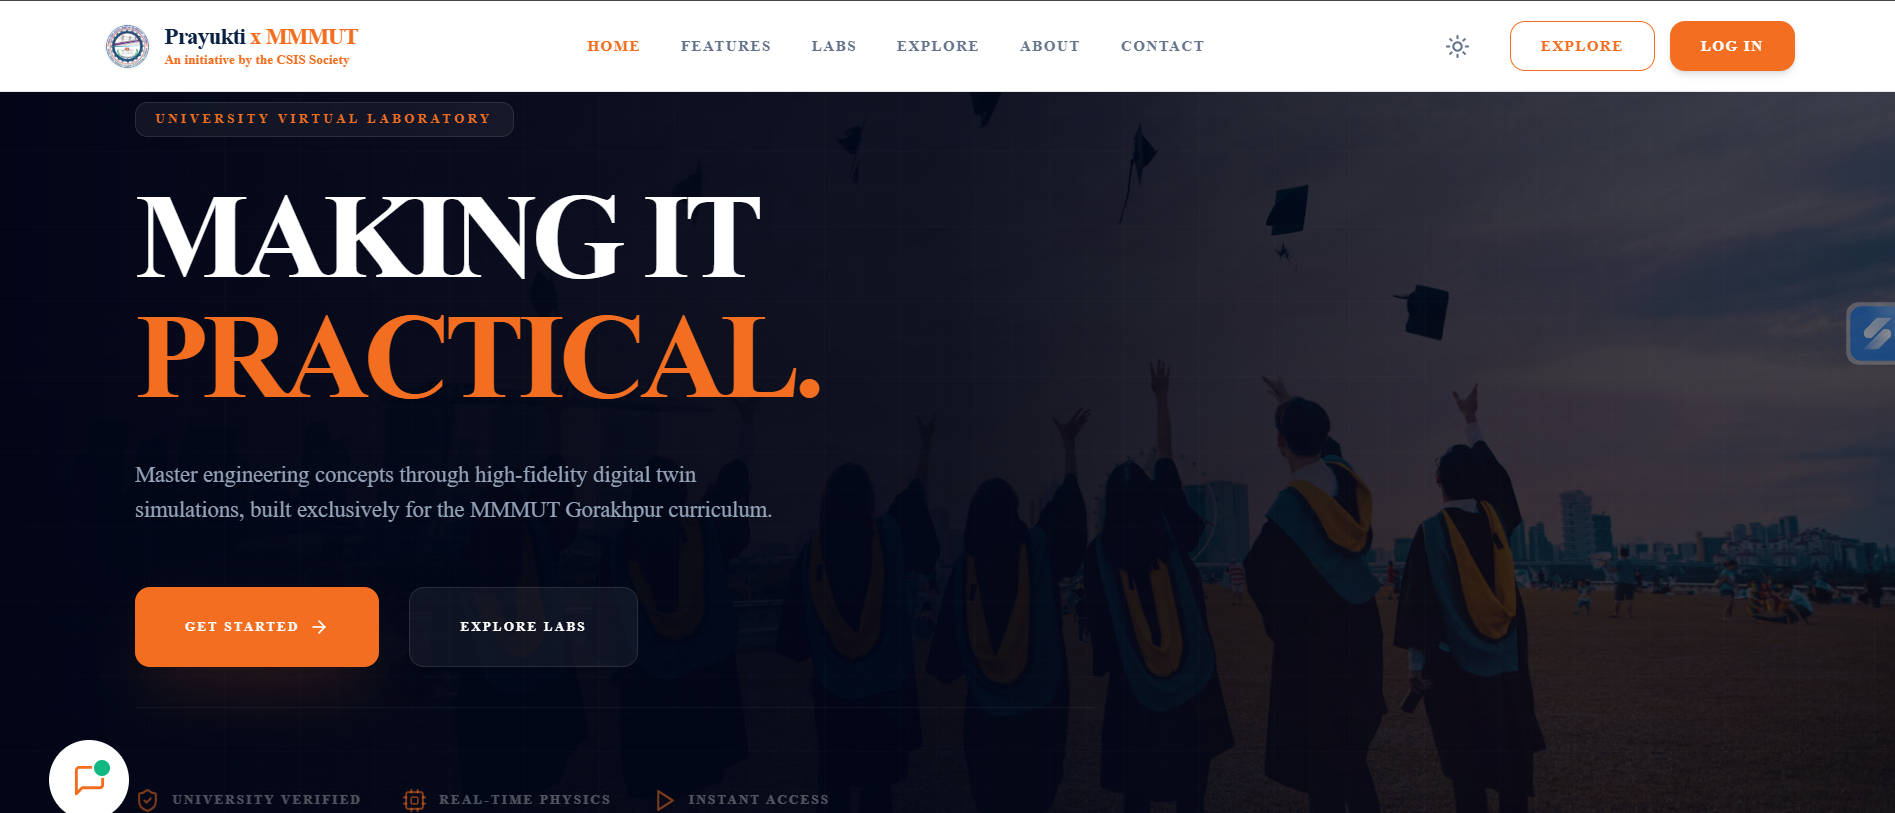
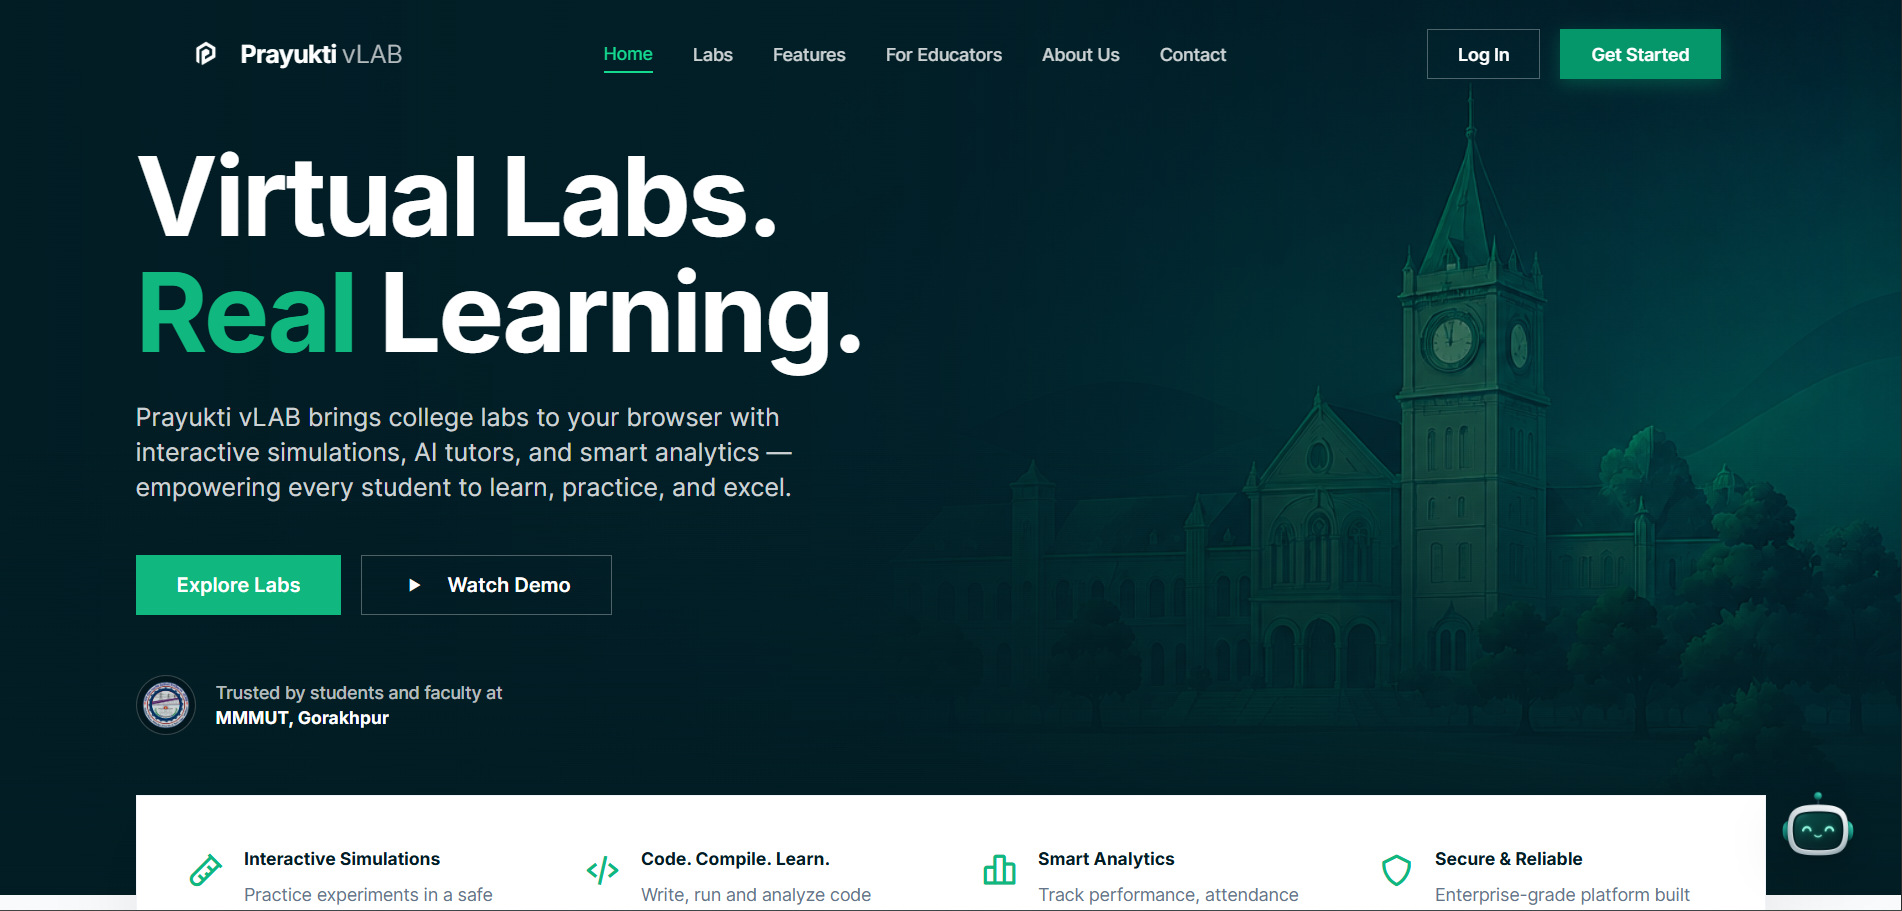
try now 2

diff --git a/src/components/ActiveProjects.tsx b/src/components/ActiveProjects.tsx
@@ -4,15 +4,8 @@ import { useRef, useState, useCallback } from "react";
 import Image from "next/image";
 import { motion, useInView } from "framer-motion";
 import {
-  Users,
-  ExternalLink,
   Lightbulb,
-  ArrowUpRight,
-  GitBranch,
-  Clock,
-  ChevronRight,
   ArrowRight,
-  User,
 } from "lucide-react";
 import Link from "next/link";
 import ComingSoonModal from "@/components/ui/ComingSoonModal";
@@ -333,27 +326,26 @@ function ProjectCard({
             {/* Meta tags directly below description */}
             <div className="flex flex-wrap items-center gap-4 mb-5 pb-5 border-b border-white/10">
               <div className="flex items-center gap-1.5 text-[11px] font-medium text-[var(--text-dim)]">
-                <GitBranch className="w-3.5 h-3.5 text-[var(--accent)]" />
+                <span className="text-[var(--accent)] font-bold">ID:</span>
                 <span className="font-mono">{project.id}</span>
               </div>
 
               <div className="flex items-center gap-1.5 text-[11px] font-medium text-[var(--text-dim)]">
-                <Users className="w-3.5 h-3.5 text-[var(--accent)]" />
+                <span className="text-[var(--accent)] font-bold">TEAM:</span>
                 <span>{project.teamSize} Members</span>
               </div>
               {project.duration && (
                 <div className="flex items-center gap-1.5 text-[11px] font-medium text-[var(--text-dim)]">
-                  <Clock className="w-3.5 h-3.5 text-[var(--accent)]" />
+                  <span className="text-[var(--accent)] font-bold">DURATION:</span>
                   <span>{project.duration}</span>
                 </div>
               )}
               {project.leadName && (
                 <div className="flex items-center gap-1.5 text-[11px] font-medium text-[var(--text-dim)]">
-                  <User className="w-3.5 h-3.5 text-[var(--accent)]" />
-                  <span>Lead: {project.leadName}</span>
+                  <span className="text-[var(--accent)] font-bold">LEAD:</span>
+                  <span>{project.leadName}</span>
                 </div>
               )}
-
             </div>
 
             {/* Spacer to push content down */}
@@ -394,7 +386,7 @@ function ProjectCard({
               </div>
 
               {/* Action Buttons */}
-              <div className={`flex flex-wrap items-center gap-3 pt-2`}>
+              <div className="relative z-40 flex flex-wrap items-center gap-3 pt-2">
                 <motion.a
                   href={project.applicationUrl}
                   target="_blank"
@@ -407,43 +399,40 @@ function ProjectCard({
                   whileHover={{ scale: 1.02 }}
                   whileTap={{ scale: 0.98 }}
                 >
-                  <span>Visit Application</span>
-                  <motion.span
-                    animate={isHovered ? { x: 3, y: -3, opacity: 1 } : { x: 0, y: 0, opacity: 0.8 }}
-                    transition={{ duration: 0.2 }}
-                  >
-                    <ArrowUpRight className={`${featured ? "w-4 h-4" : "w-3.5 h-3.5"}`} />
-                  </motion.span>
+                  <span>View Project</span>
                 </motion.a>
 
-                <motion.a
-                  href={project.githubUrl || "#"}
-                  target="_blank"
-                  rel="noopener noreferrer"
-                  onClick={handleExternalLinkClick}
-                  className={`flex items-center justify-center gap-2 rounded-xl transition-all duration-300 px-4 py-2 text-sm text-[var(--text-muted)] border border-white/10 hover:border-indigo-500/50 hover:shadow-[0_0_15px_rgba(99,102,241,0.2)] hover:bg-indigo-500/10 hover:text-indigo-200`}
-                  whileHover={{ scale: 1.05 }}
-                  whileTap={{ scale: 0.95 }}
-                >
-                  <span>GitHub</span>
-                  <motion.span
-                    animate={isHovered ? { rotate: [0, -15, 15, -15, 0], scale: 1.2 } : { rotate: 0, scale: 1 }}
-                    transition={{ duration: 0.5 }}
+                {project.githubUrl && (
+                  <motion.a
+                    href={project.githubUrl}
+                    target="_blank"
+                    rel="noopener noreferrer"
+                    className={`flex items-center justify-center gap-2 rounded-xl transition-all duration-300 px-4 py-2 text-sm text-[var(--text-muted)] border border-white/10 hover:border-indigo-500/50 hover:shadow-[0_0_15px_rgba(99,102,241,0.2)] hover:bg-indigo-500/10 hover:text-indigo-200`}
+                    whileHover={{ scale: 1.05 }}
+                    whileTap={{ scale: 0.95 }}
                   >
-                    <GitBranch className="w-3.5 h-3.5" />
-                  </motion.span>
-                </motion.a>
+                    <span>GitHub</span>
+                  </motion.a>
+                )}
 
                 <Link
                   href={`/projects/${project.id}`}
-                  className={`flex items-center justify-center gap-1.5 rounded-xl transition-all duration-300 px-3 py-2 text-xs font-medium text-[var(--text-muted)] hover:text-white hover:bg-white/5 border border-transparent hover:border-white/10`}
+                  className={`flex items-center justify-center gap-1.5 rounded-xl transition-all duration-300 px-4 py-2 text-sm font-medium text-[var(--text-muted)] hover:text-white hover:bg-white/5 border border-transparent hover:border-white/10`}
                 >
                   <span>Know more</span>
-                  <ChevronRight className="w-3.5 h-3.5" />
                 </Link>
               </div>
             </div>
           </div>
+          
+          {/* Transparent Overlay for Coming Soon Projects */}
+          {project.id !== "PROJ-001" && (
+            <div className="absolute inset-0 z-30 bg-black/50 backdrop-blur-[1px] flex flex-col items-center justify-center pointer-events-none rounded-[15px]">
+              <div className="px-6 py-3 bg-black/60 border border-white/20 rounded-2xl backdrop-blur-md shadow-2xl">
+                <span className="text-white font-bold text-lg md:text-xl tracking-widest uppercase shadow-black drop-shadow-md">Case Study Coming Soon</span>
+              </div>
+            </div>
+          )}
         </div>
       </motion.div>
 

diff --git a/src/app/join-us/thank-you/page.tsx b/src/app/join-us/thank-you/page.tsx
@@ -1,0 +1,78 @@
+import Link from "next/link";
+
+export default function ThankYouPage() {
+  return (
+    <div className="min-h-screen flex items-center justify-center pt-24 pb-16 px-6 bg-[#050505] relative overflow-hidden">
+      {/* Background glow */}
+      <div className="absolute inset-0 z-0 overflow-hidden pointer-events-none">
+        <div className="absolute top-1/2 left-1/2 -translate-x-1/2 -translate-y-1/2 w-[600px] h-[500px] bg-blue-600/10 rounded-full blur-[120px]" />
+        <div className="absolute bottom-0 left-0 w-full h-px bg-gradient-to-r from-transparent via-blue-500/20 to-transparent" />
+      </div>
+
+      <div className="relative z-10 max-w-2xl w-full text-center mt-10">
+        <h1 className="text-4xl md:text-5xl font-extrabold text-white tracking-tight mb-8">
+          Form Submitted <span className="text-transparent bg-clip-text bg-gradient-to-r from-blue-400 to-indigo-400">Successfully</span>
+        </h1>
+        
+        <div className="bg-[#0A0A0A] border border-white/10 rounded-3xl p-8 md:p-12 shadow-2xl mb-10 relative overflow-hidden">
+          {/* Subtle top highlight */}
+          <div className="absolute top-0 left-0 right-0 h-[2px] bg-gradient-to-r from-transparent via-blue-500/50 to-transparent" />
+          
+          <p className="text-lg text-gray-300 mb-8 leading-relaxed font-medium">
+            Thank you for showing interest in joining the team. We greatly appreciate the time and effort you took to apply!
+          </p>
+          
+          <div className="bg-blue-900/10 border border-blue-500/20 rounded-2xl p-6 mb-8">
+            <p className="text-blue-100 leading-relaxed">
+              Don't worry - even if you aren't selected for the core team this time, you can still join CSIS as a <strong>Contributor</strong>. We believe in open opportunities for everyone.
+            </p>
+          </div>
+
+          <div className="py-6 border-y border-white/5 mb-8">
+            <p className="text-xl md:text-2xl font-bold text-white tracking-wide italic leading-snug">
+              "The focus is not a society, the focus is STEM and its use to make the world a better place."
+            </p>
+          </div>
+
+          <p className="text-gray-400 text-xs md:text-sm mb-6 uppercase tracking-[0.2em] font-bold">
+            In the meantime, follow us on our socials
+          </p>
+
+          <div className="flex flex-wrap justify-center gap-4">
+            <a 
+              href="https://linkedin.com/company/csis-mmmut" 
+              target="_blank" 
+              rel="noreferrer" 
+              className="px-6 py-3 bg-white/[0.03] border border-white/10 rounded-xl text-white hover:bg-white/10 hover:border-white/20 transition-all font-semibold text-sm"
+            >
+              LinkedIn
+            </a>
+            <a 
+              href="https://instagram.com/csis.mmmut" 
+              target="_blank" 
+              rel="noreferrer" 
+              className="px-6 py-3 bg-white/[0.03] border border-white/10 rounded-xl text-white hover:bg-white/10 hover:border-white/20 transition-all font-semibold text-sm"
+            >
+              Instagram
+            </a>
+            <a 
+              href="https://twitter.com/csis_mmmut" 
+              target="_blank" 
+              rel="noreferrer" 
+              className="px-6 py-3 bg-white/[0.03] border border-white/10 rounded-xl text-white hover:bg-white/10 hover:border-white/20 transition-all font-semibold text-sm"
+            >
+              Twitter
+            </a>
+          </div>
+        </div>
+
+        <Link 
+          href="/" 
+          className="inline-flex items-center justify-center px-10 py-4 rounded-xl bg-blue-600 text-white font-bold text-sm hover:bg-blue-500 transition-all shadow-[0_0_20px_rgba(37,99,235,0.4)] hover:shadow-[0_0_30px_rgba(37,99,235,0.6)]"
+        >
+          Return to Homepage
+        </Link>
+      </div>
+    </div>
+  );
+}

diff --git a/src/components/ScrollToTop.tsx b/src/components/ScrollToTop.tsx
@@ -27,7 +27,7 @@ export default function ScrollToTop() {
           transition={{ duration: 0.25, ease: "easeOut" }}
           onClick={scrollToTop}
           aria-label="Scroll to top"
-          className="fixed bottom-8 left-8 z-50 w-12 h-12 rounded-2xl flex items-center justify-center text-white transition-all duration-300 group
+          className="fixed bottom-8 right-8 z-50 w-12 h-12 rounded-2xl flex items-center justify-center text-white transition-all duration-300 group
             bg-gradient-to-br from-blue-500 to-indigo-600 
             shadow-[6px_6px_12px_rgba(0,0,0,0.4),-4px_-4px_10px_rgba(255,255,255,0.05),inset_2px_2px_5px_rgba(255,255,255,0.3),inset_-2px_-2px_5px_rgba(0,0,0,0.3)]
             hover:shadow-[8px_8px_16px_rgba(0,0,0,0.5),-4px_-4px_12px_rgba(255,255,255,0.1),inset_3px_3px_6px_rgba(255,255,255,0.4),inset_-3px_-3px_6px_rgba(0,0,0,0.4)]

diff --git a/src/components/HeroSection.tsx b/src/components/HeroSection.tsx
@@ -63,7 +63,7 @@ export default function HeroSection() {
           <p className="mb-4 text-gray-300">
             The Computer Science and Innovation Society at MMMUT enables students to participate, initiate, collaborate, and take ownership of technical activities.
           </p>
-          <p className="text-blue-400 font-semibold text-xl">
+          <p className="text-blue-400 font-sans">
             Building the next generation of technology through hands-on learning and contribution.
           </p>
         </motion.div>
